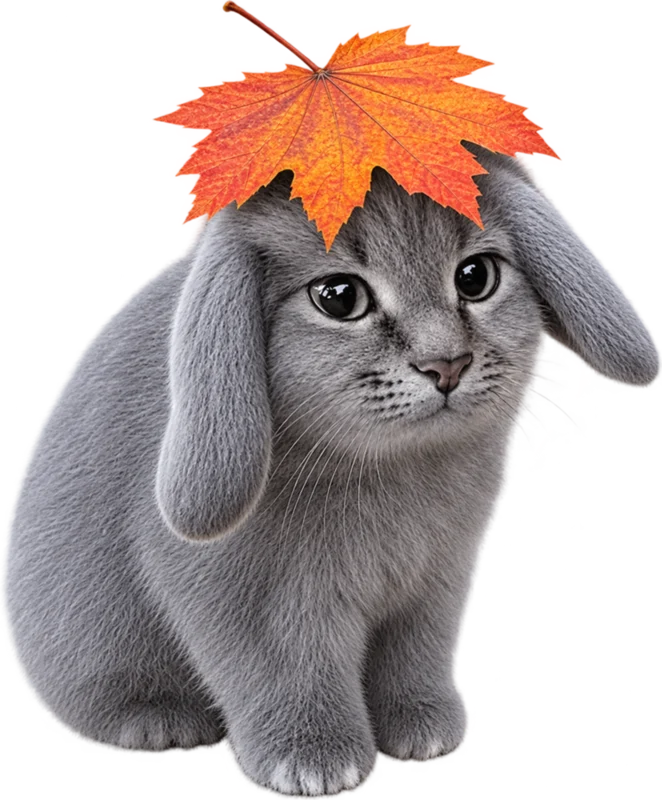
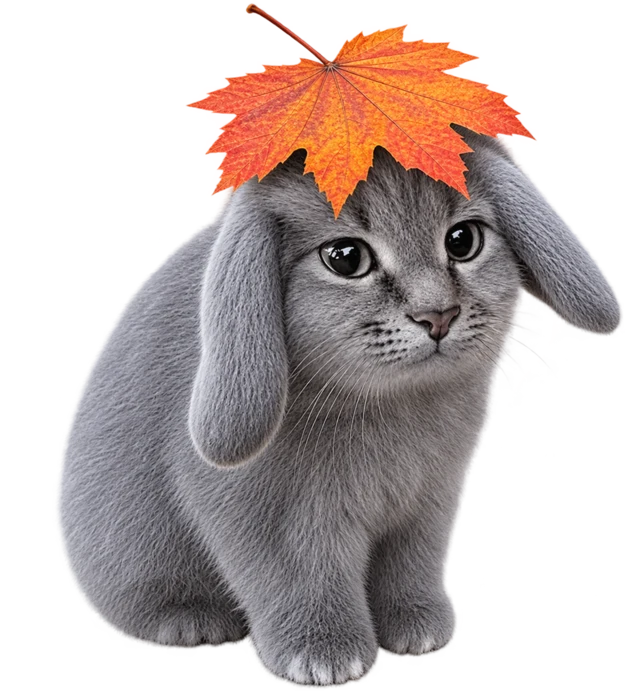
fix kotokrol size, transparency and jump animation

diff --git a/SodaDlc/public/index.html b/SodaDlc/public/index.html
@@ -11,7 +11,7 @@
   <meta property="og:image" content="/logo.svg" />
   <link rel="icon" type="image/svg+xml" href="/logo.svg" />
   <link rel="stylesheet" href="/fonts/fonts.css" />
-  <link rel="stylesheet" href="/styles.css" />
+  <link rel="stylesheet" href="/styles.css?v=3" />
 </head>
 <body>
   <div id="site-header"></div>
@@ -36,7 +36,7 @@
 
         <div class="hero-panel hero-kotokrol">
           <button class="kotokrol" id="kotokrol" type="button" title="Нажми :3" aria-label="Котокроль — нажми, чтобы он подпрыгнул">
-            <img src="/images/kotokrol.webp" alt="Котокроль" draggable="false">
+            <img src="/images/kotokrol.webp?v=2" alt="Котокроль" draggable="false">
           </button>
         </div>
       </div>
@@ -230,13 +230,13 @@
   (() => {
     const kk = document.getElementById("kotokrol");
     if (!kk) return;
+    let timer = null;
     kk.addEventListener("click", () => {
       kk.classList.remove("jump");
       void kk.offsetWidth;
       kk.classList.add("jump");
-    });
-    kk.addEventListener("animationend", (e) => {
-      if (e.animationName === "kotokrol-jump") kk.classList.remove("jump");
+      clearTimeout(timer);
+      timer = setTimeout(() => kk.classList.remove("jump"), 1050);
     });
   })();
 </script>

diff --git a/SodaDlc/public/styles.css b/SodaDlc/public/styles.css
@@ -411,7 +411,7 @@ tbody tr:last-child td { border-bottom: 0; }
 }
 
 
-.hero-kotokrol { display: flex; align-items: center; justify-content: center; }
+.hero-kotokrol { position: relative; z-index: 1; display: flex; align-items: center; justify-content: center; }
 .kotokrol {
   padding: 0;
   border: 0;
@@ -424,7 +424,7 @@ tbody tr:last-child td { border-bottom: 0; }
 }
 .kotokrol img {
   display: block;
-  width: min(100%, 430px);
+  width: min(100%, 320px);
   height: auto;
   pointer-events: none;
   user-select: none;
@@ -444,7 +444,4 @@ tbody tr:last-child td { border-bottom: 0; }
   74% { transform: translateY(0) rotate(360deg) scale(1.06, 0.94); }
   86% { transform: translateY(-16px) rotate(360deg) scale(1); }
   100% { transform: translateY(0) rotate(360deg) scale(1); }
-}
-@media (prefers-reduced-motion: reduce) {
-  .kotokrol { animation: none; }
 }
